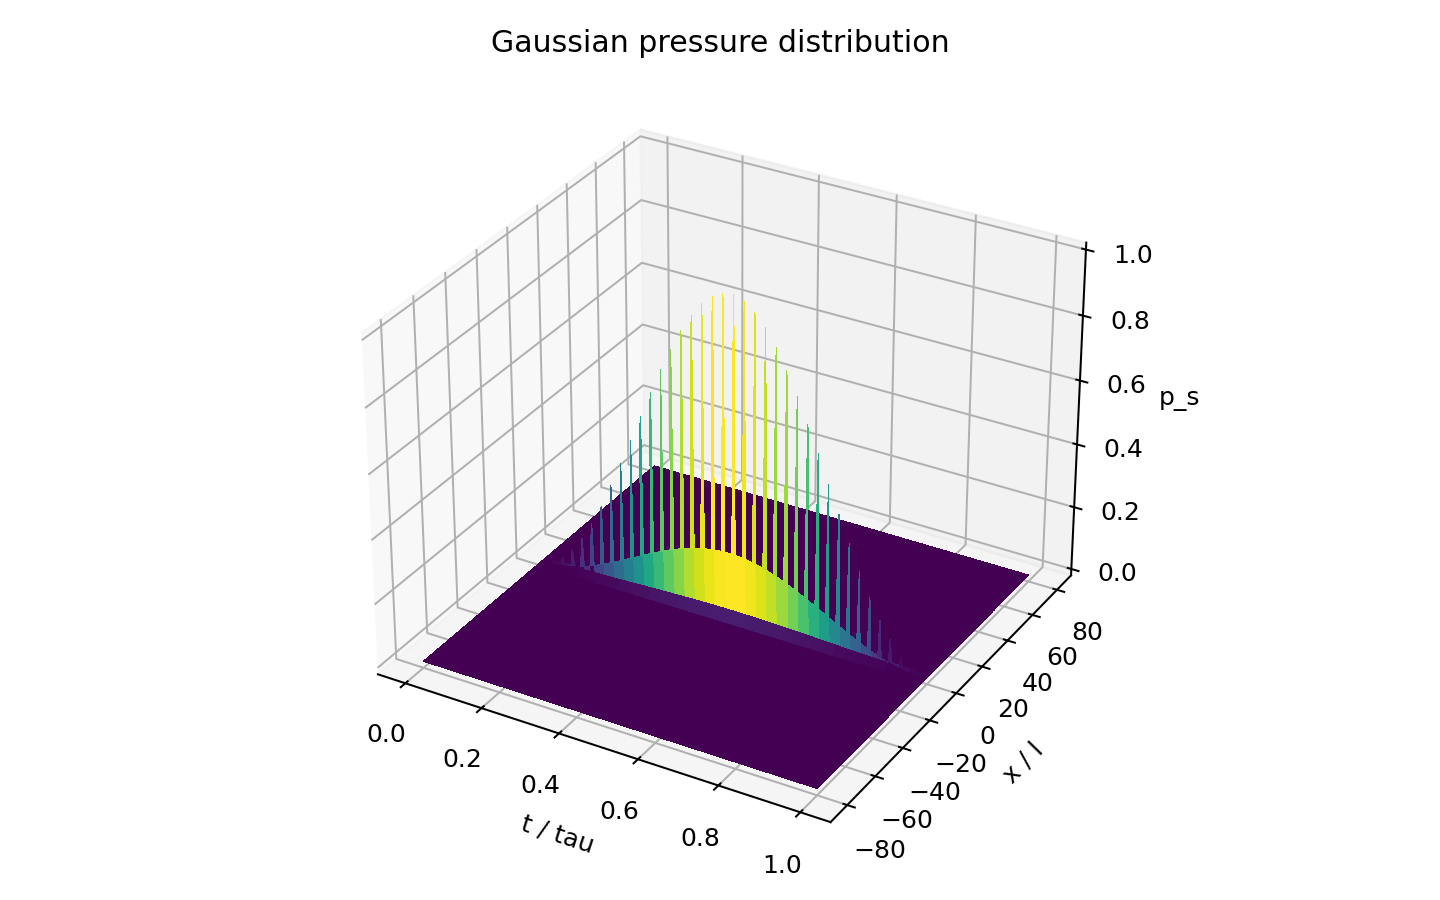
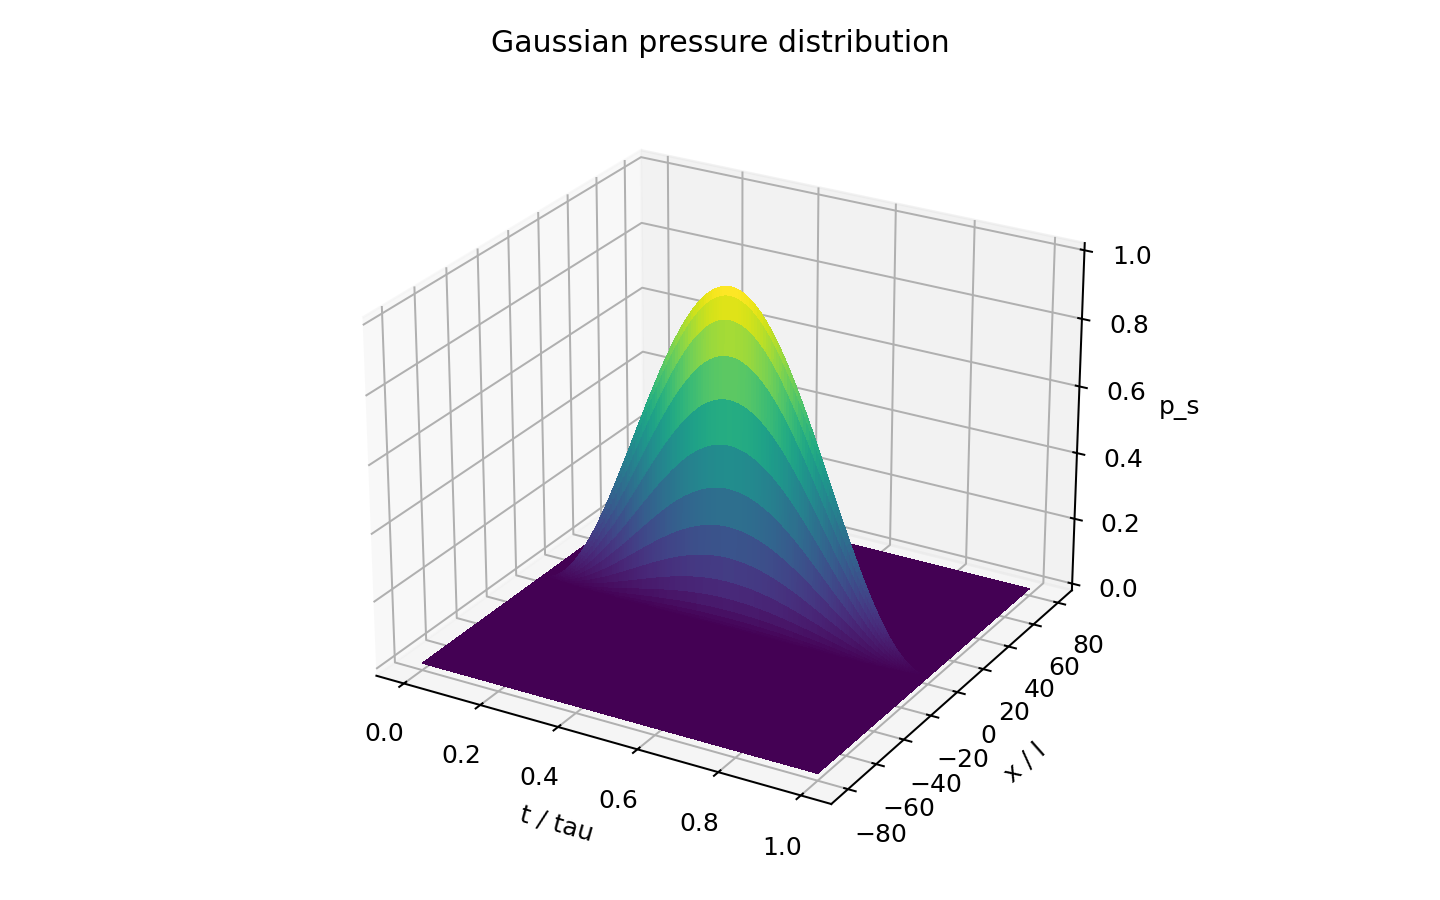
Update simulation code to match with visualization in matlab

diff --git a/src/simulation.py b/src/simulation.py
@@ -16,7 +16,13 @@ matplotlib.use("Agg")
 import matplotlib.pyplot as plt
 import numpy as np
 
-from src.dtn import build_dtn_matrix
+try:
+    from src.dtn import build_dtn_matrix
+except ModuleNotFoundError:
+    import sys
+
+    sys.path.insert(0, str(Path(__file__).resolve().parents[1]))
+    from src.dtn import build_dtn_matrix
 
 
 @dataclass(frozen=True)
@@ -167,11 +173,24 @@ def save_outputs(results: dict[str, np.ndarray | float], output_dir: Path) -> No
     fig = plt.figure(figsize=(8, 5))
     ax = fig.add_subplot(111, projection="3d")
     tt, xx = np.meshgrid(t_vec, x_vec)
-    ax.plot_surface(tt, xx, pressure, cmap="viridis", linewidth=0, antialiased=False)
+
+    # Match MATLAB's smooth surf rendering more closely by disabling the
+    # default downsampling in Matplotlib's 3D surface plot.
+    ax.plot_surface(
+        tt,
+        xx,
+        pressure,
+        cmap="viridis",
+        linewidth=0,
+        antialiased=False,
+        rcount=pressure.shape[0],
+        ccount=pressure.shape[1],
+    )
     ax.set_xlabel("t / tau")
     ax.set_ylabel("x / l")
     ax.set_zlabel("p_s")
     ax.set_title("Gaussian pressure distribution")
+    ax.view_init(elev=25, azim=-60)
     fig.tight_layout()
     fig.savefig(output_dir / "python_simulation_pressure_surface.png", dpi=180)
     plt.close(fig)
